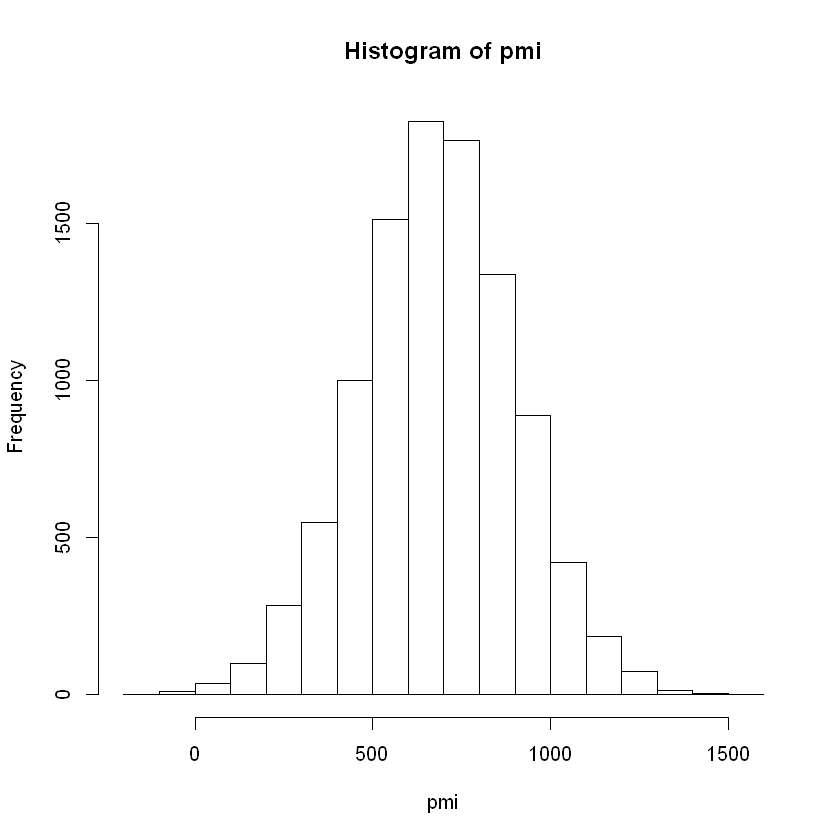
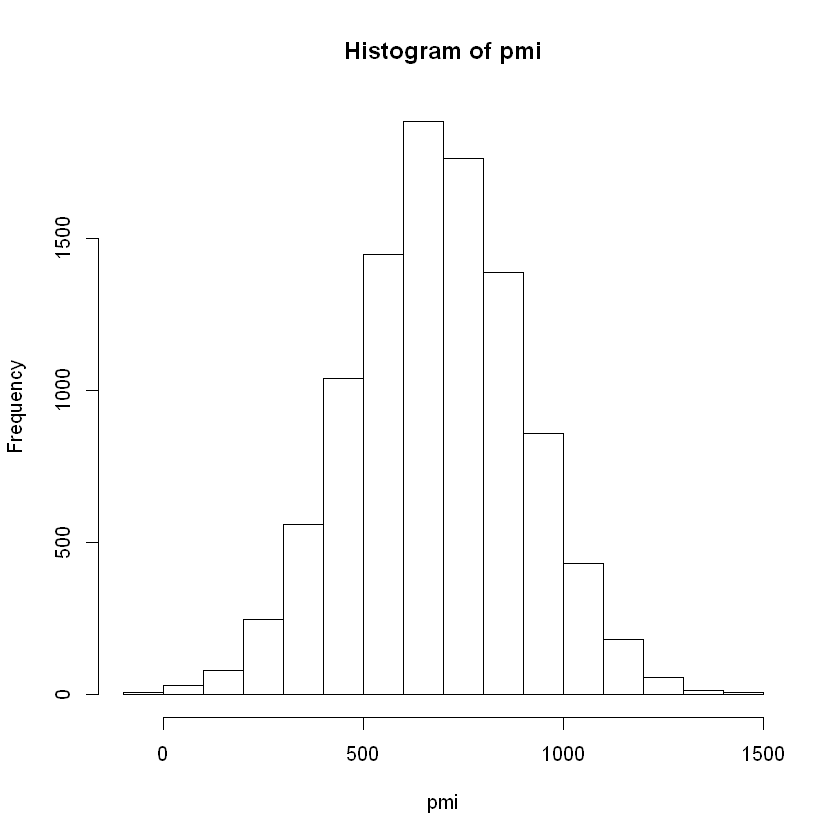
update with seed

diff --git a/_posts/2019-09-21-approximation.md b/_posts/2019-09-21-approximation.md
@@ -33,25 +33,26 @@ $$ \mu = \frac{a + \lambda b+c }{\lambda + 2} $$
 So lets plug in some numbers here and start modeling this in `R`. For our model, lets say we have an activity that we estimate to cost $$ a=200 $$, $$ b=600 $$, $$ c=1500 $$.
 
 ~~~R
-# Define inputs
+set.seed(1234)
 a = 200 # optimistic
 b = 600 # most likely
 c = 1500 # pessimistic
 lambda = 4 # arbitrary
 ~~~
 
-To convert the parameters we have into a beta-smoothed PERT distribution, we need to define our shape parameters and generate some values. This can be achieved by calculating the shape parameters per Vose's methodology[^fn3] and then scaling each sample by the range and offsetting by the optimistic estimate (minimum) [^fn2]. We need to generate at least $$ 10000 $$ samples to get a good idea of the shape of the distribution. I also took the liberty of rounding to two decimal places to make everything a bit more readable.
+To convert the parameters we have into a beta-smoothed PERT distribution, we need to define our shape parameters and generate some values. This can be achieved by calculating the shape parameters per Vose's methodology[^fn3] and then scaling each sample by the range and offsetting by the optimistic estimate (see footnote link for their `R` code)[^fn2]. We need to generate at least $$ 10000 $$ samples to get a good idea of the shape of the distribution. I also took the liberty of rounding to two decimal places to make everything a bit more readable.
 
 ~~~R
 pert <- function(a, b, c, lambda) {
   mu = (a + lambda * b + c) / (lambda + 2)
   a1 = ((mu - a) * (2 * b - a - c)) / ((b - mu) * (c - a))
   a2 = (a1 * (c - mu)) / (mu - a)
-  return(round((rbeta(10000, a1, a2) * (c - a) + a), digits = 2))
+  data = rbeta(10000, a1, a2)
+  return(round(data * (c - a) + a, digits = 2))
 }
 ~~~
 
-If you run the function and get the quantiles (I chose $$ .05, .50, .95 $$) you get `5% 328.387 50% 664.69 95% 1096.763`.
+If you run the function and get the quantiles (I chose $$ .05, .50, .95 $$) you get `5% 323.94 50% 663.6 95% 1100.46`.
 
 ![Output]({{ "/assets/pert.png" | absolute_url }})
 
@@ -63,7 +64,7 @@ tridf <- round(rtri(n = 10000, a, c, b), digits = 2)
 quantile(tridf, c(.05, .50, .95)) 
 ~~~
 
-We get the following quantiles `5% 365.045 50% 734.795 95% 1259.287`.
+We get the following quantiles `5% 361.325 50% 735.87 95% 1259.053`.
 
 ![Output]({{ "/assets/tri.png" | absolute_url }})
 
@@ -81,7 +82,7 @@ pmi <- round(rnorm(10000, mean, sd), digits = 2)
 quantile(pmi, c(.05, .50, .95))  
 ~~~
 
-This gets us quantiles of `5% 320.647 50% 685.885 95% 1033.246`, as well as a nice parametric distribution.
+This gets us quantiles of `5% 331.7395 50% 684.34 95% 1035.309`, as well as a nice parametric distribution.
 
 ![Output]({{ "/assets/pmi.png" | absolute_url }})
 
@@ -90,9 +91,9 @@ To sum it up, we have the following results:
 
 |     |   PMI   |   PERT   |    Triangular   |
 |:---:|:-------:|:--------:|:--------:|
-|  5% |  320.647 |  328.387 |  365.045 |
-| 50% |  685.885 |   664.69 |  734.795 |
-| 95% | 1033.246 | 1096.763 | 1259.287 |
+|  5% |  331.7395 |  323.94 |  361.325 |
+| 50% |  684.34 |   663.6 |  735.87 |
+| 95% | 1035.309 | 1100.46 | 1259.053 |
 
 So which method is the most accurate? That's hard to say, I was surprised the PMI methodology got similar results to the PERT beta smoothed methodology. All methods ranked probability of the extremes very low, but all three methodologies showed their bias towards the most likely scenario. Given that expert input would place some probability at both the optimistic and pessimistic, it would be interesting to compare the modeled probability with that of the expert. I would imagine its probably not $$ .001 $$ ([see this chart](https://flowingdata.com/2018/07/06/how-people-interpret-probability-through-words/ "How people interpret probability through words") on how people interpret probabilistic words). Given the results, I would probably recommend padding the expert estimates to capture them within the model to the probabilistic interval they would attribute them to.
 
